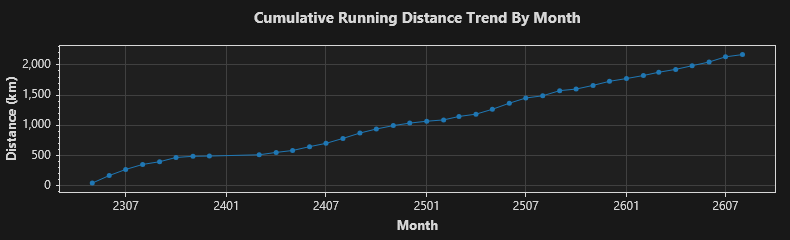
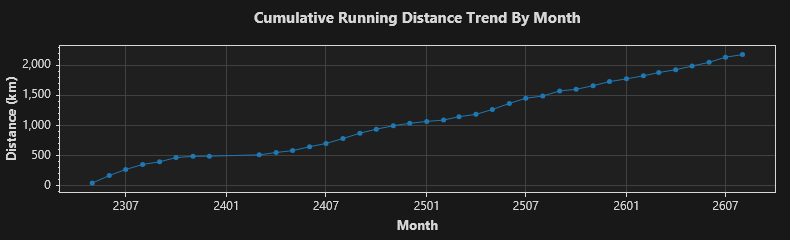
2026/8/25 跑步 6.10 公里

diff --git a/trend.md b/trend.md
@@ -1,4 +1,4 @@
-### Total: 369 days, 2171.6599999999998544808477163 km.
+### Total: 370 days, 2177.7600000000002182787284255 km.
 
 
 ![Monthly](https://github.com/prime167/MyRunningLog/blob/main/data/CumulativeTrendByMonth.png)
